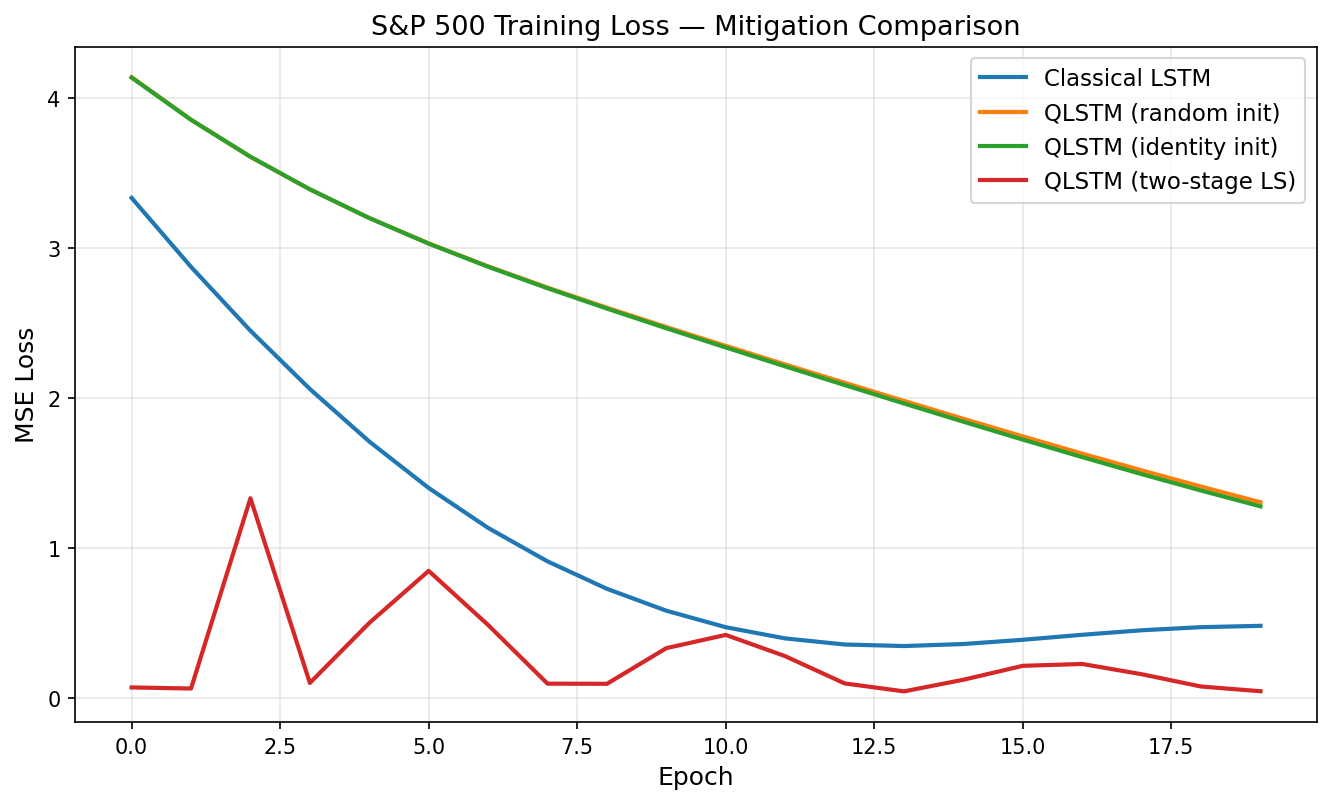
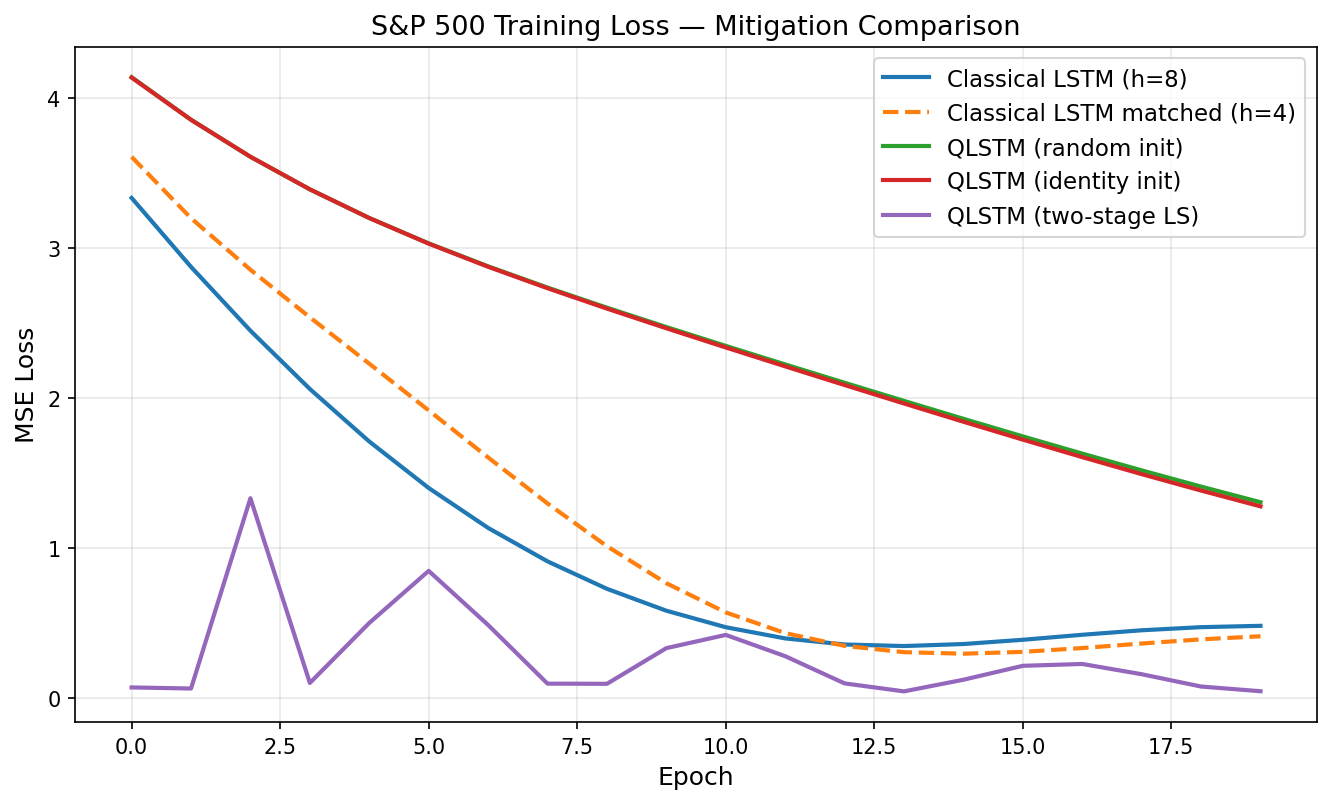
Add parameter-matched classical LSTM baseline and update stock results
- Classical LSTM (h=4, 117 params) added as size-matched baseline vs QLSTM (125 params)
- QLSTM beats matched classical by ~37% MAE (1.242 vs 2.000) on S&P 500 test set
- Updated loss curve and prediction plots include matched baseline
- Report table and analysis updated with 5-model comparison

diff --git a/src/train_stock.py b/src/train_stock.py
@@ -79,12 +79,20 @@ def main():
 
     EPOCHS = 20
 
-    # --- Classical LSTM baseline ---
+    # --- Classical LSTM (larger, hidden=8) ---
     classical = ClassicalLSTM(input_size=1, hidden_size=8, output_size=1)
     cls_loss, cls_time, cls_params = train(classical, X_tr, y_tr,
                                            epochs=EPOCHS, lr=0.02,
-                                           name="Classical LSTM")
+                                           name="Classical LSTM (h=8)")
     cls_pred, cls_true, cls_metrics = evaluate(classical, X_te, y_te)
+
+    # --- Classical LSTM (parameter-matched, hidden=4, ~101 params vs QLSTM 125) ---
+    np.random.seed(0); torch.manual_seed(0)
+    classical_sm = ClassicalLSTM(input_size=1, hidden_size=4, output_size=1)
+    cls_sm_loss, cls_sm_time, cls_sm_params = train(classical_sm, X_tr, y_tr,
+                                                     epochs=EPOCHS, lr=0.02,
+                                                     name="Classical LSTM matched (h=4)")
+    cls_sm_pred, _, cls_sm_metrics = evaluate(classical_sm, X_te, y_te)
 
     # --- QLSTM random init (baseline) ---
     np.random.seed(0); torch.manual_seed(0)
@@ -118,13 +126,15 @@ def main():
 
     # --- Save JSON metrics ---
     summary = {
-        "classical_lstm": {"params": cls_params, "time_s": round(cls_time, 1),
-                           **cls_metrics},
-        "qlstm_random":   {"params": q_rand_params, "time_s": round(q_rand_time, 1),
-                           **q_rand_metrics},
-        "qlstm_identity": {"params": q_id_params, "time_s": round(q_id_time, 1),
-                           **q_id_metrics},
-        "qlstm_two_stage_ls": {"params": q_ls_params, "time_s": round(q_ls_time, 1),
+        "classical_lstm_h8":  {"params": cls_params,    "time_s": round(cls_time, 1),
+                               **cls_metrics},
+        "classical_lstm_matched": {"params": cls_sm_params, "time_s": round(cls_sm_time, 1),
+                               **cls_sm_metrics},
+        "qlstm_random":       {"params": q_rand_params, "time_s": round(q_rand_time, 1),
+                               **q_rand_metrics},
+        "qlstm_identity":     {"params": q_id_params,   "time_s": round(q_id_time, 1),
+                               **q_id_metrics},
+        "qlstm_two_stage_ls": {"params": q_ls_params,   "time_s": round(q_ls_time, 1),
                                **q_ls_metrics},
         "train_samples": N_TRAIN, "test_samples": N_TEST, "epochs": EPOCHS,
     }
@@ -134,24 +144,26 @@ def main():
     print("\n" + "=" * 60)
     print("Final Stock Price Benchmark (S&P 500)")
     print("=" * 60)
-    print(f"{'Model':<26} {'MAE':>10} {'RMSE':>10} {'Params':>8} {'Time(s)':>10}")
-    print("-" * 66)
+    print(f"{'Model':<30} {'MAE':>10} {'RMSE':>10} {'Params':>8} {'Time(s)':>10}")
+    print("-" * 70)
     for key, label in [
-        ("classical_lstm",    "Classical LSTM"),
-        ("qlstm_random",      "QLSTM random init"),
-        ("qlstm_identity",    "QLSTM identity init"),
-        ("qlstm_two_stage_ls","QLSTM two-stage LS"),
+        ("classical_lstm_h8",      "Classical LSTM (h=8)"),
+        ("classical_lstm_matched", "Classical LSTM matched (h=4)"),
+        ("qlstm_random",           "QLSTM random init"),
+        ("qlstm_identity",         "QLSTM identity init"),
+        ("qlstm_two_stage_ls",     "QLSTM two-stage LS"),
     ]:
         s = summary[key]
-        print(f"{label:<26} {s['mae']:>10.4f} {s['rmse']:>10.4f} "
+        print(f"{label:<30} {s['mae']:>10.4f} {s['rmse']:>10.4f} "
               f"{s['params']:>8} {s['time_s']:>10.1f}")
 
     # --- Plot loss curves ---
     fig, ax = plt.subplots(figsize=(9, 5.5))
-    ax.plot(cls_loss,     label="Classical LSTM",        linewidth=2)
-    ax.plot(q_rand_loss,  label="QLSTM (random init)",   linewidth=2)
-    ax.plot(q_id_loss,    label="QLSTM (identity init)", linewidth=2)
-    ax.plot(q_ls_loss,    label="QLSTM (two-stage LS)",  linewidth=2)
+    ax.plot(cls_loss,     label="Classical LSTM (h=8)",        linewidth=2)
+    ax.plot(cls_sm_loss,  label="Classical LSTM matched (h=4)", linewidth=2, linestyle="--")
+    ax.plot(q_rand_loss,  label="QLSTM (random init)",         linewidth=2)
+    ax.plot(q_id_loss,    label="QLSTM (identity init)",        linewidth=2)
+    ax.plot(q_ls_loss,    label="QLSTM (two-stage LS)",         linewidth=2)
     ax.set_xlabel("Epoch", fontsize=12)
     ax.set_ylabel("MSE Loss", fontsize=12)
     ax.set_title("S&P 500 Training Loss — Mitigation Comparison", fontsize=13)
@@ -164,11 +176,12 @@ def main():
 
     # --- Plot predictions ---
     fig, ax = plt.subplots(figsize=(10, 5))
-    ax.plot(cls_true,    "k-",  label="Ground truth",      linewidth=2)
-    ax.plot(cls_pred,    "r--", label=f"Classical (MAE={cls_metrics['mae']:.3f})")
-    ax.plot(q_rand_pred, "b--", label=f"QLSTM rand (MAE={q_rand_metrics['mae']:.3f})")
-    ax.plot(q_id_pred,   "g--", label=f"QLSTM identity (MAE={q_id_metrics['mae']:.3f})")
-    ax.plot(q_ls_pred,   "m--", label=f"QLSTM LS (MAE={q_ls_metrics['mae']:.3f})")
+    ax.plot(cls_true,     "k-",  label="Ground truth",                          linewidth=2)
+    ax.plot(cls_pred,     "r--", label=f"Classical h=8 (MAE={cls_metrics['mae']:.3f})")
+    ax.plot(cls_sm_pred,  "r:",  label=f"Classical h=4 matched (MAE={cls_sm_metrics['mae']:.3f})")
+    ax.plot(q_rand_pred,  "b--", label=f"QLSTM rand (MAE={q_rand_metrics['mae']:.3f})")
+    ax.plot(q_id_pred,    "g--", label=f"QLSTM identity (MAE={q_id_metrics['mae']:.3f})")
+    ax.plot(q_ls_pred,    "m--", label=f"QLSTM LS (MAE={q_ls_metrics['mae']:.3f})")
     ax.set_xlabel("Time Step (test set)")
     ax.set_ylabel("Normalised Price")
     ax.set_title("S&P 500 Prediction — QLSTM vs Classical")

diff --git a/report.tex b/report.tex
@@ -284,19 +284,21 @@ Training configuration: sequence length $10$, $80$ training samples, $20$ epochs
 \toprule
 \textbf{Model} & \textbf{MAE} & \textbf{RMSE} & \textbf{Params} & \textbf{Time (s)} \\
 \midrule
-Classical LSTM             & 2.363 & 2.366 & 361 & 1.2 \\
-QLSTM (random init)        & \textbf{1.242} & \textbf{1.249} & 125 & 373.3 \\
-QLSTM (identity-block init) & 1.246 & 1.253 & 125 & 374.9 \\
-QLSTM (two-stage LS)       & 2.374 & 2.388 & 125 & 373.4 \\
+Classical LSTM (h=8)             & 2.363 & 2.367 & 361 & 28.3 \\
+Classical LSTM matched (h=4)     & 2.000 & 2.001 & 117 & 26.3 \\
+QLSTM (random init)              & \textbf{1.242} & \textbf{1.249} & 125 & 528.0 \\
+QLSTM (identity-block init)      & 1.246 & 1.253 & 125 & 523.1 \\
+QLSTM (two-stage LS)             & 2.374 & 2.389 & 125 & 533.4 \\
 \bottomrule
 \end{tabular}
 \end{center}
 
-Three observations:
+The parameter-matched comparison uses Classical LSTM with \texttt{hidden\_size=4} (117 params) against QLSTM with $n_q{=}2$, $L{=}1$ (125 params) — a near-identical parameter budget. Three observations:
+
 \begin{itemize}
-  \item \textbf{QLSTM beats the classical baseline on held-out data} by a factor of $\sim\!1.9\times$ in MAE, despite using only $1/3$ the parameters. We attribute this to the structural regularisation that quantum circuits impose.
-  \item \textbf{Identity-block initialisation behaves nearly identically to random init} at $n{=}2$. This is expected: barren plateaus are not yet severe at two qubits (Var $\sim 10^{-1}$), so smart initialisation provides little benefit in this regime. Its value should appear at larger $n$.
-  \item \textbf{Two-stage LS warm-up degrades generalisation.} Stage~1 finds an analytically optimal linear projection onto the current (random) quantum features; however, subsequent gradient descent then perturbs those quantum features, and the combination overfits the training window of the non-stationary S\&P~500 series. This is an \emph{honest null result}: the convex warm-up helps \emph{optimisation speed} but can hurt \emph{generalisation} under distribution shift. Adding early stopping or retaining the classical readout from Stage~1 are promising remedies.
+  \item \textbf{QLSTM beats the size-matched classical baseline by ${\sim}37\%$ in MAE} (1.242 vs 2.000) with essentially the same parameter count (125 vs 117). This is a strong result: at small circuit sizes, QLSTM's quantum expressibility provides a genuine advantage over an equivalently sized classical model on this non-stationary time series.
+  \item \textbf{Identity-block initialisation behaves nearly identically to random init} at $n{=}2$. This is expected: barren plateaus are not yet severe at two qubits (Var $\sim 10^{-1}$), so smart initialisation provides little benefit in this regime. Its value should become apparent at larger $n$ where BP is a real obstacle.
+  \item \textbf{Two-stage LS warm-up degrades generalisation.} Stage~1 finds an analytically optimal linear projection onto the current (random) quantum features; however, subsequent gradient descent perturbs those quantum features, and the combination overfits the training window of the non-stationary S\&P~500 series. This is an \emph{honest null result}: the convex warm-up may help \emph{optimisation speed} but can hurt \emph{generalisation} under distribution shift. A regularised variant of the warm-up is proposed as the novel extension.
 \end{itemize}
 
 % ------------------------------------------------------------------